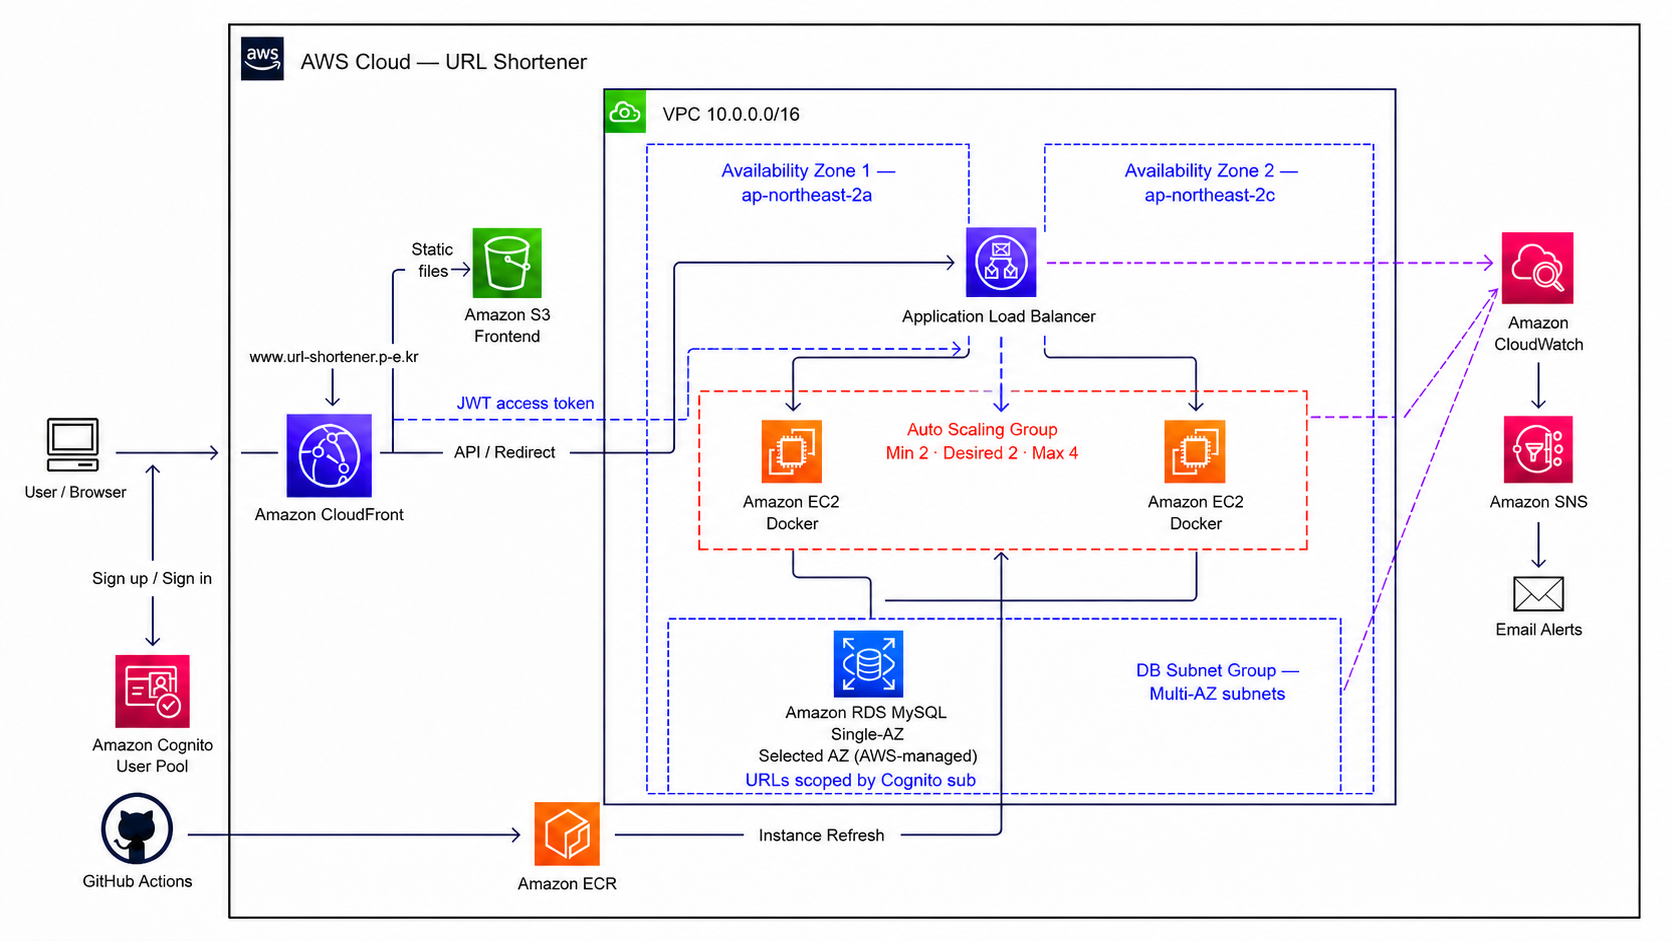
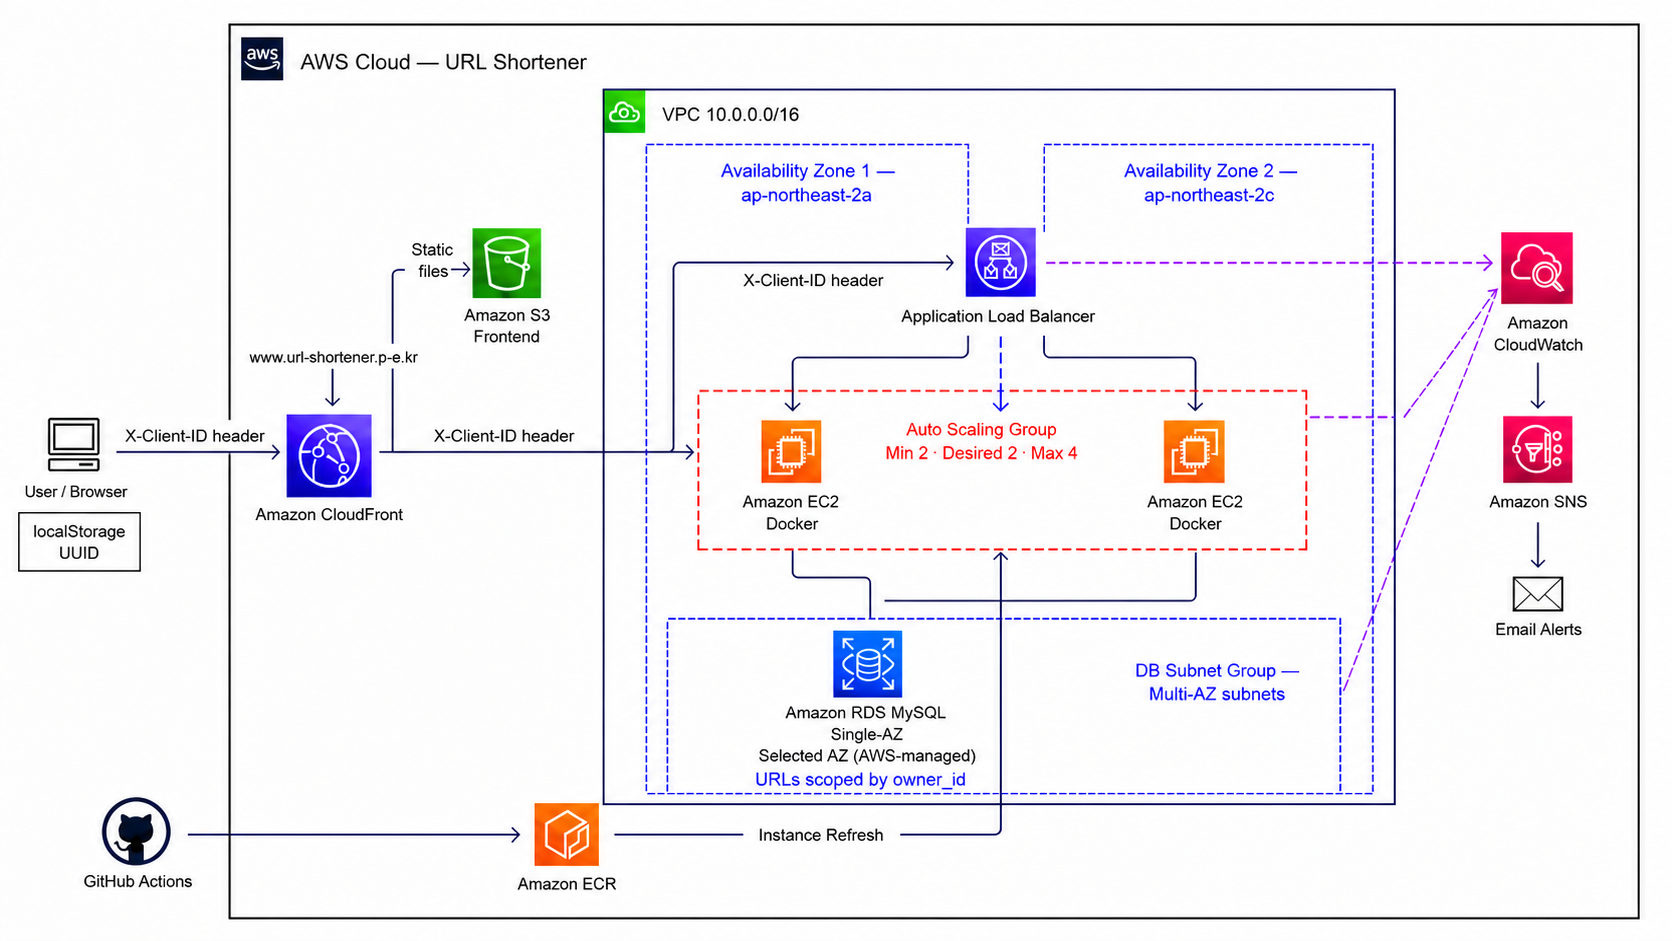
separate URL lists by browser ID

diff --git a/frontend/script.js b/frontend/script.js
@@ -1,131 +1,19 @@
 const API_BASE_URL = '';
-const AUTH_CONFIG = window.AUTH_CONFIG || {};
-const TOKEN_KEY = 'urlShortenerAccessToken';
-const TOKEN_EXPIRY_KEY = 'urlShortenerTokenExpiry';
-const PKCE_VERIFIER_KEY = 'urlShortenerPkceVerifier';
-const OAUTH_STATE_KEY = 'urlShortenerOauthState';
+const CLIENT_ID_KEY = 'urlShortenerClientId';
 
-function base64Url(bytes) {
-  return btoa(String.fromCharCode(...bytes))
-    .replace(/\+/g, '-')
-    .replace(/\//g, '_')
-    .replace(/=+$/, '');
-}
-
-function randomBase64Url(byteLength = 32) {
-  return base64Url(crypto.getRandomValues(new Uint8Array(byteLength)));
-}
-
-async function login() {
-  if (!AUTH_CONFIG.domain || !AUTH_CONFIG.clientId) {
-    showError('로그인 설정을 불러오지 못했습니다.');
-    return;
+function getClientId() {
+  let clientId = localStorage.getItem(CLIENT_ID_KEY);
+  if (!clientId) {
+    clientId = crypto.randomUUID();
+    localStorage.setItem(CLIENT_ID_KEY, clientId);
   }
-  const verifier = randomBase64Url(64);
-  const state = randomBase64Url(32);
-  const digest = await crypto.subtle.digest('SHA-256', new TextEncoder().encode(verifier));
-  sessionStorage.setItem(PKCE_VERIFIER_KEY, verifier);
-  sessionStorage.setItem(OAUTH_STATE_KEY, state);
-  const params = new URLSearchParams({
-    response_type: 'code',
-    client_id: AUTH_CONFIG.clientId,
-    redirect_uri: AUTH_CONFIG.redirectUri,
-    scope: 'openid email',
-    state,
-    code_challenge_method: 'S256',
-    code_challenge: base64Url(new Uint8Array(digest))
-  });
-  window.location.assign(`${AUTH_CONFIG.domain}/oauth2/authorize?${params}`);
+  return clientId;
 }
 
-function clearSession() {
-  sessionStorage.removeItem(TOKEN_KEY);
-  sessionStorage.removeItem(TOKEN_EXPIRY_KEY);
-  sessionStorage.removeItem(PKCE_VERIFIER_KEY);
-  sessionStorage.removeItem(OAUTH_STATE_KEY);
-}
-
-function logout() {
-  clearSession();
-  const params = new URLSearchParams({
-    client_id: AUTH_CONFIG.clientId,
-    logout_uri: AUTH_CONFIG.logoutUri
-  });
-  window.location.assign(`${AUTH_CONFIG.domain}/logout?${params}`);
-}
-
-function getAccessToken() {
-  const token = sessionStorage.getItem(TOKEN_KEY);
-  const expiry = Number(sessionStorage.getItem(TOKEN_EXPIRY_KEY));
-  if (!token || !expiry || Date.now() >= expiry) {
-    clearSession();
-    return null;
-  }
-  return token;
-}
-
-async function handleLoginCallback() {
-  const params = new URLSearchParams(window.location.search);
-  if (params.has('error')) {
-    history.replaceState({}, '', window.location.pathname);
-    throw new Error(params.get('error_description') || params.get('error'));
-  }
-  const code = params.get('code');
-  if (!code) return;
-
-  const verifier = sessionStorage.getItem(PKCE_VERIFIER_KEY);
-  const expectedState = sessionStorage.getItem(OAUTH_STATE_KEY);
-  if (!verifier || !expectedState || params.get('state') !== expectedState) {
-    clearSession();
-    throw new Error('로그인 요청을 확인할 수 없습니다. 다시 로그인해 주세요.');
-  }
-
-  const response = await fetch(`${AUTH_CONFIG.domain}/oauth2/token`, {
-    method: 'POST',
-    headers: { 'Content-Type': 'application/x-www-form-urlencoded' },
-    body: new URLSearchParams({
-      grant_type: 'authorization_code',
-      client_id: AUTH_CONFIG.clientId,
-      code,
-      redirect_uri: AUTH_CONFIG.redirectUri,
-      code_verifier: verifier
-    })
-  });
-  const tokens = await response.json();
-  if (!response.ok || !tokens.access_token) {
-    clearSession();
-    throw new Error(tokens.error_description || '로그인 토큰을 발급받지 못했습니다.');
-  }
-  sessionStorage.setItem(TOKEN_KEY, tokens.access_token);
-  sessionStorage.setItem(TOKEN_EXPIRY_KEY, String(Date.now() + tokens.expires_in * 1000));
-  sessionStorage.removeItem(PKCE_VERIFIER_KEY);
-  sessionStorage.removeItem(OAUTH_STATE_KEY);
-  history.replaceState({}, '', window.location.pathname);
-}
-
-function renderAuthentication() {
-  const authenticated = Boolean(getAccessToken());
-  document.getElementById('authStatus').textContent = authenticated
-    ? '로그인됨 — 내 URL만 표시됩니다.'
-    : '로그인이 필요합니다.';
-  document.getElementById('loginButton').classList.toggle('hidden', authenticated);
-  document.getElementById('logoutButton').classList.toggle('hidden', !authenticated);
-  document.getElementById('randomButton').disabled = !authenticated;
-  document.getElementById('customButton').disabled = !authenticated;
-}
-
-async function authenticatedFetch(path, options = {}) {
-  const token = getAccessToken();
-  if (!token) throw new Error('로그인이 필요합니다.');
+async function clientFetch(path, options = {}) {
   const headers = new Headers(options.headers || {});
-  headers.set('Authorization', `Bearer ${token}`);
-  const response = await fetch(`${API_BASE_URL}${path}`, { ...options, headers });
-  if (response.status === 401) {
-    clearSession();
-    renderAuthentication();
-    throw new Error('로그인이 만료되었습니다. 다시 로그인해 주세요.');
-  }
-  return response;
+  headers.set('X-Client-ID', getClientId());
+  return fetch(`${API_BASE_URL}${path}`, { ...options, headers });
 }
 
 document.getElementById('shortenForm').addEventListener('submit', (event) => {
@@ -142,11 +30,6 @@ async function shortenUrl(mode) {
   errorDiv.textContent = '';
   errorDiv.classList.remove('show');
 
-  if (!getAccessToken()) {
-    showError('로그인 후 URL을 단축할 수 있습니다.');
-    return;
-  }
-
   if (!url) {
     showError('URL을 입력하세요.');
     return;
@@ -158,7 +41,7 @@ async function shortenUrl(mode) {
   }
 
   try {
-    const response = await authenticatedFetch('/api/shorten', {
+    const response = await clientFetch('/api/shorten', {
       method: 'POST',
       headers: {
         'Content-Type': 'application/json'
@@ -205,12 +88,8 @@ function copyToClipboard() {
 }
 
 async function loadUrlList() {
-  if (!getAccessToken()) {
-    document.getElementById('urlList').innerHTML = '<p class="loading">로그인하면 본인이 만든 URL 목록을 볼 수 있습니다.</p>';
-    return;
-  }
   try {
-    const response = await authenticatedFetch('/api/urls');
+    const response = await clientFetch('/api/urls');
 
     if (!response.ok) {
       throw new Error('URL 목록을 불러오지 못했습니다.');
@@ -262,7 +141,7 @@ async function deleteUrl(id) {
   }
 
   try {
-    const response = await authenticatedFetch(`/api/urls/${encodeURIComponent(id)}`, {
+    const response = await clientFetch(`/api/urls/${encodeURIComponent(id)}`, {
       method: 'DELETE'
     });
 
@@ -288,12 +167,6 @@ function formatDate(dateString) {
   });
 }
 
-document.addEventListener('DOMContentLoaded', async () => {
-  try {
-    await handleLoginCallback();
-  } catch (error) {
-    showError(error.message);
-  }
-  renderAuthentication();
-  await loadUrlList();
+document.addEventListener('DOMContentLoaded', () => {
+  loadUrlList();
 });

diff --git a/frontend/index.html b/frontend/index.html
@@ -10,11 +10,6 @@
   <div class="container">
     <header class="header">
       <h1>URL Shortener</h1>
-      <div class="auth-actions">
-        <span id="authStatus">로그인이 필요합니다.</span>
-        <button type="button" id="loginButton" class="btn btn-primary" onclick="login()">로그인 / 회원가입</button>
-        <button type="button" id="logoutButton" class="btn btn-secondary hidden" onclick="logout()">로그아웃</button>
-      </div>
       <p>긴 URL을 짧고 관리하기 쉬운 링크로 바꿔보세요.</p>
     </header>
 
@@ -78,7 +73,6 @@
     </main>
   </div>
 
-  <script src="config.js"></script>
   <script src="script.js?v=3"></script>
 </body>
 </html>

diff --git a/frontend/style.css b/frontend/style.css
@@ -313,10 +313,3 @@ body {
     width: 100%;
   }
 }
-.auth-actions {
-  display: flex;
-  align-items: center;
-  justify-content: center;
-  gap: 12px;
-  margin-top: 16px;
-}

diff --git a/backend/src/main/java/com/example/urlshortener/controller/UrlMappingController.java b/backend/src/main/java/com/example/urlshortener/controller/UrlMappingController.java
@@ -6,8 +6,8 @@ import org.springframework.http.HttpStatus;
 import org.springframework.http.MediaType;
 import org.springframework.http.ResponseEntity;
 import org.springframework.lang.NonNull;
-import org.springframework.security.core.annotation.AuthenticationPrincipal;
-import org.springframework.security.oauth2.jwt.Jwt;
+import org.springframework.web.bind.annotation.RequestHeader;
+import org.springframework.web.server.ResponseStatusException;
 import org.springframework.web.bind.annotation.CrossOrigin;
 import org.springframework.web.bind.annotation.DeleteMapping;
 import org.springframework.web.bind.annotation.GetMapping;
@@ -21,6 +21,7 @@ import java.net.URI;
 import java.net.URISyntaxException;
 import java.util.List;
 import java.util.Optional;
+import java.util.UUID;
 
 @RestController
 @RequestMapping
@@ -35,10 +36,10 @@ public class UrlMappingController {
 
     @PostMapping(path = "/api/shorten", consumes = MediaType.APPLICATION_JSON_VALUE, produces = MediaType.APPLICATION_JSON_VALUE)
     public ResponseEntity<ShortenResponse> shorten(
-            @AuthenticationPrincipal Jwt jwt,
+            @RequestHeader("X-Client-ID") String clientId,
             @RequestBody ShortenRequest request) {
         try {
-            return ResponseEntity.ok(service.shorten(jwt.getSubject(), request));
+            return ResponseEntity.ok(service.shorten(validateClientId(clientId), request));
         } catch (IllegalArgumentException ex) {
             return ResponseEntity.badRequest().body(new ShortenResponse(ex.getMessage()));
         }
@@ -61,15 +62,15 @@ public class UrlMappingController {
     }
 
     @GetMapping(path = "/api/urls", produces = MediaType.APPLICATION_JSON_VALUE)
-    public List<UrlSummary> listUrls(@AuthenticationPrincipal Jwt jwt) {
-        return service.listUrls(jwt.getSubject());
+    public List<UrlSummary> listUrls(@RequestHeader("X-Client-ID") String clientId) {
+        return service.listUrls(validateClientId(clientId));
     }
 
     @DeleteMapping("/api/urls/{id}")
     public ResponseEntity<GenericResponse> deleteUrl(
-            @AuthenticationPrincipal Jwt jwt,
+            @RequestHeader("X-Client-ID") String clientId,
             @NonNull @PathVariable("id") String id) {
-        if (!service.deleteUrl(jwt.getSubject(), id)) {
+        if (!service.deleteUrl(validateClientId(clientId), id)) {
             return ResponseEntity.status(HttpStatus.NOT_FOUND).build();
         }
         return ResponseEntity.ok(new GenericResponse("URL deleted successfully"));
@@ -77,11 +78,23 @@ public class UrlMappingController {
 
     @GetMapping(path = "/api/stats/{shortCode}", produces = MediaType.APPLICATION_JSON_VALUE)
     public ResponseEntity<UrlStats> getStats(
-            @AuthenticationPrincipal Jwt jwt,
+            @RequestHeader("X-Client-ID") String clientId,
             @PathVariable("shortCode") String shortCode) {
-        return service.getStats(jwt.getSubject(), shortCode)
+        return service.getStats(validateClientId(clientId), shortCode)
                 .map(ResponseEntity::ok)
                 .orElse(ResponseEntity.status(HttpStatus.NOT_FOUND).build());
+    }
+
+    private String validateClientId(String clientId) {
+        try {
+            UUID parsed = UUID.fromString(clientId);
+            if (!parsed.toString().equals(clientId.toLowerCase())) {
+                throw new IllegalArgumentException("Non-canonical UUID");
+            }
+            return parsed.toString();
+        } catch (IllegalArgumentException ex) {
+            throw new ResponseStatusException(HttpStatus.BAD_REQUEST, "Invalid X-Client-ID");
+        }
     }
 
     @GetMapping(path = "/health", produces = MediaType.APPLICATION_JSON_VALUE)
